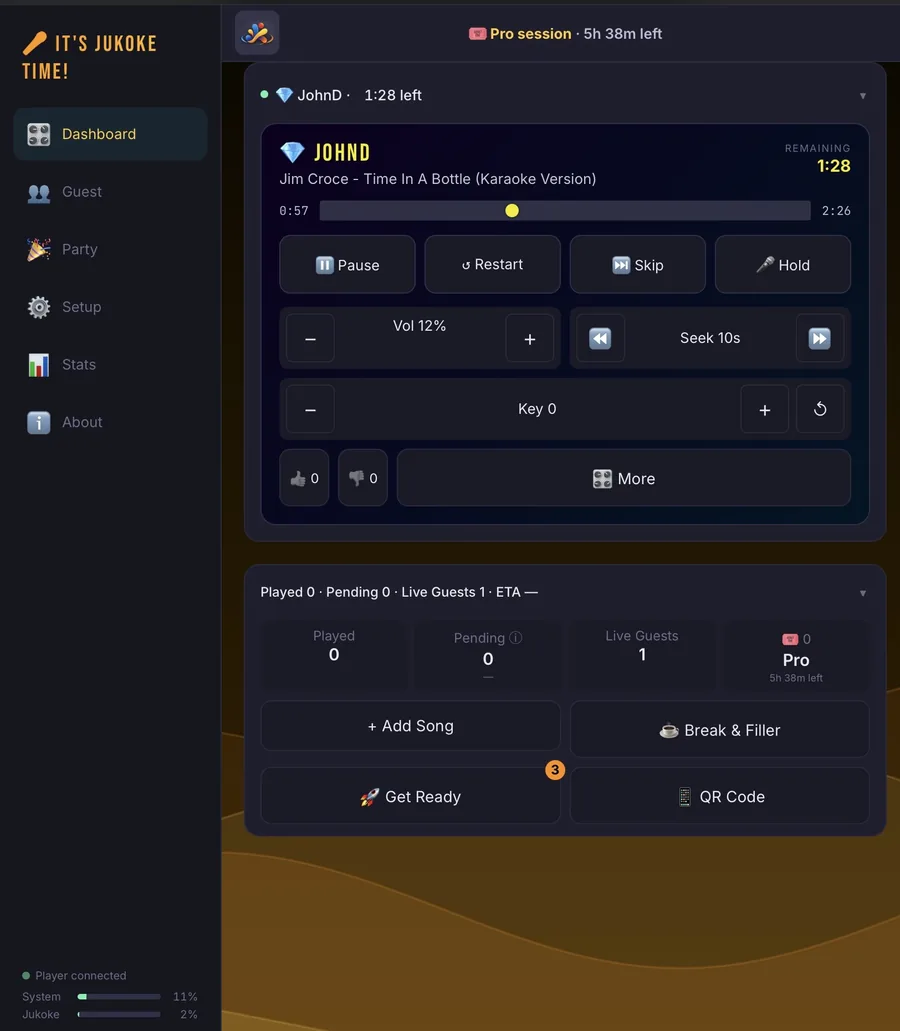
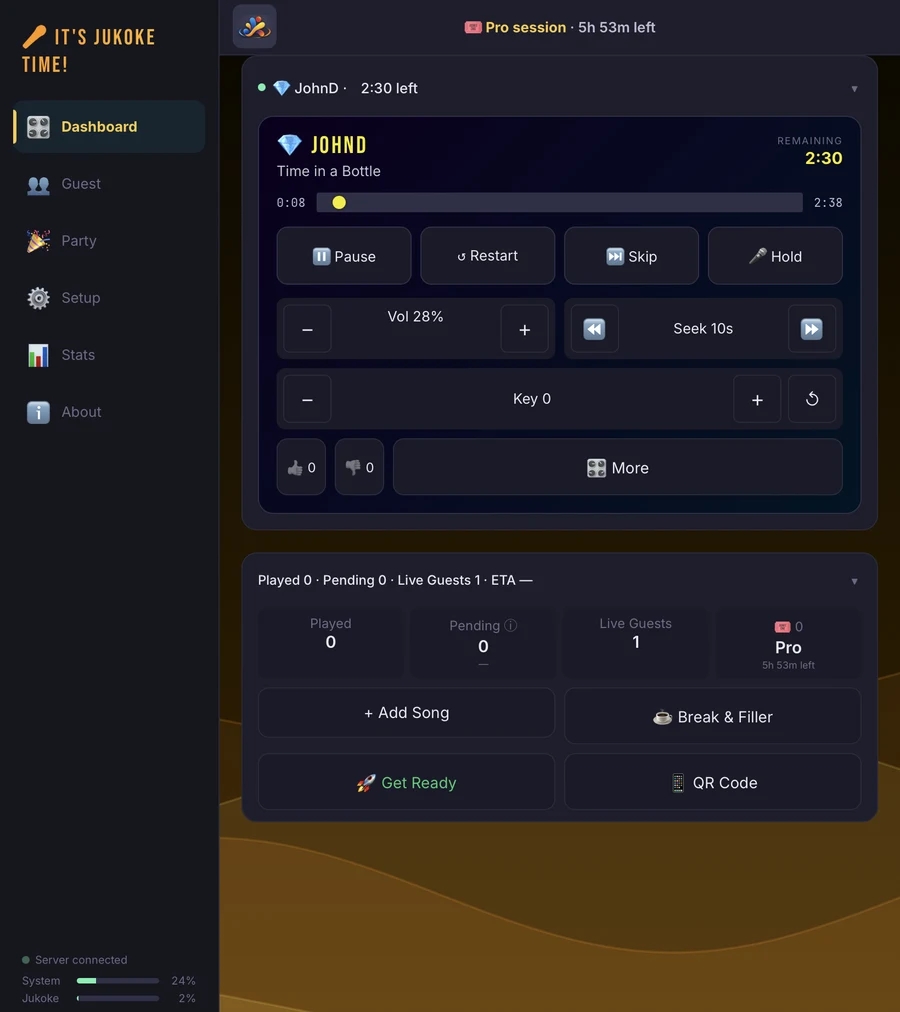
Add 2026.10.26-001 release news and new Get Ready screenshots
News and feed entry for the Get Ready update.
Features: updated NICE-Start text. New Get Ready screenshot, plus a new Test songs figure.
Dashboard hero image retaken on a Pro session, showing the green Get Ready button. Its height attributes are updated on the home and Features pages.

Claude-Session: https://claude.ai/code/session_01HnEckNtUaNkFFQ5UtnkAkX

diff --git a/features.html b/features.html
@@ -120,9 +120,10 @@
 <figcaption class="small muted">The host&rsquo;s night, start to finish</figcaption>
 </figure>
 <div class="shots two">
-<figure class="shot"><img src="img/shots/host-get-ready.webp" width="900" height="1016" alt="The Get Ready checklist on the host dashboard, with checks for songs, playback and guest Wi-Fi" loading="lazy"><figcaption>Get Ready checks your screen, songs and Wi-Fi, and shows what is left.</figcaption></figure>
+<figure class="shot"><img src="img/shots/host-get-ready.webp" width="900" height="840" alt="The Get Ready checklist on the host dashboard, with a status card, checks for songs, playback and guest Wi-Fi, and the Test songs and Screen and sound buttons" loading="lazy"><figcaption>Get Ready checks your screen, songs, Wi-Fi and server, and shows what is left.</figcaption></figure>
+<figure class="shot"><img src="img/shots/host-test-songs.webp" width="900" height="984" alt="The Test songs panel with every check showing OK: display, player, locations, collection, BYO folders, online search, media cache and guest access" loading="lazy"><figcaption>Test songs tries a sample of your songs and says which step, if any, would stop them playing.</figcaption></figure>
 <figure class="shot"><img src="img/shots/host-party-prep.webp" width="900" height="1016" alt="The Party Prep list with one prep, Smith Wedding, and buttons to open, clone or export it" loading="lazy"><figcaption>Prepare the night ahead of time, then bring it to life at the party.</figcaption></figure>
-<figure class="shot"><img src="img/shots/host-dashboard-singing.webp" width="900" height="1031" alt="The host dashboard while a guest sings, with pause, skip, volume and key controls, and buttons below for Add Song, Break &amp; Filler, Get Ready and QR Code" loading="lazy"><figcaption>Run the party from the dashboard while a guest sings.</figcaption></figure>
+<figure class="shot"><img src="img/shots/host-dashboard-singing.webp" width="900" height="1012" alt="The host dashboard while a guest sings, with pause, skip, volume and key controls, and buttons below for Add Song, Break &amp; Filler, Get Ready and QR Code" loading="lazy"><figcaption>Run the party from the dashboard while a guest sings.</figcaption></figure>
 <figure class="shot"><img src="img/shots/host-approve-guest.webp" width="900" height="1016" alt="The Guests screen with a pending guest and Approve, Come See Me and Reject buttons" loading="lazy"><figcaption>Step in when you need to: approve, check in with, or turn away a guest.</figcaption></figure>
 </div>
 <h3>For your guests</h3>
@@ -258,7 +259,7 @@
 </figure>
 
 <div class="cards three">
-<article class="card"><h3><span class="tag">NICE-Start</span> Up and running, step by step</h3><p>A guided checklist for your first time, and any time something stops working. Tell Jukoke what you have to sing with: song files, your own media, or nothing yet. It checks your screen, songs, online search and Wi-Fi as they are right now, shows what is left, and takes you straight to each fix. Skip anything you do not plan to use. Sound and TV setup come with plain guidance. Online search needs a separate helper program that you choose to set up; it is provided as is, without warranty or support. On every plan.</p></article>
+<article class="card"><h3><span class="tag">NICE-Start</span> Up and running, step by step</h3><p>A guided checklist for your first time, and any time something stops working. Tell Jukoke what you have to sing with: song files, your own media, or nothing yet. It checks your screen, songs, online search and Wi-Fi as they are right now, keeps itself up to date while you work, shows what is left, and takes you straight to each fix. Skip anything you do not plan to use. It can try a sample of songs from your catalog, the Dashboard button turns green, yellow or red, and a Screen &amp; sound clip lets you check the TV and each speaker. Sound and TV setup come with plain guidance. Online search needs a separate helper program that you choose to set up; it is provided as is, without warranty or support. On every plan.</p></article>
 <article class="card"><h3><span class="tag">NICE-Prep</span> Ready before the party</h3><p>Build a plan for the night ahead of time, with no session running: party details, the look, filler music, guest permissions, your own songs, and the guests you expect with songs picked for each. On the night it all goes into place together.</p></article>
 <article class="card"><h3><span class="tag">NICE-SIP</span> Your song catalog</h3><p>Scan your folders, or import a list exported from your old karaoke software. Review it, fix any title or artist, and approve. Guests then search the songs you actually have, by title or artist, and find something that will play. Scan and import are on every plan; editing a catalog entry later is part of Lite and Pro.</p></article>
 <article class="card"><h3><span class="tag">NICE-Vibe</span> Your party&rsquo;s look</h3><p>Give the party a title and colors on guests&rsquo; phones and, on Pro, on the TV too. Pro also adds your own background pictures. Without one, the background is a wave pattern in your party colors. It feels like your party, not a generic app.</p></article>

diff --git a/news.html b/news.html
@@ -36,6 +36,21 @@
 </section>
 <section class="wrap block">
 <article class="post">
+<h2 id="r20261025">Test your screen, sound and songs before the party</h2>
+<p class="meta"><time datetime="2026-10-25">October 25, 2026</time></p>
+<p>Version 2026.10.25-001 adds two quick tests to Get Ready, keeps it up to date by itself, and makes scanning your folders simpler.</p>
+<ul class="ticks">
+<li><strong>Test songs.</strong> Get Ready tries a sample of real songs from your catalog and shows which step, if any, would stop them playing. Pick a source, or let Auto test them all. Each song it tried shows as OK, Look or Fix, with a note.</li>
+<li><strong>Screen &amp; sound.</strong> A short test clip with a pattern, a clock and music, so you can check the TV, the sound and which speaker is which. Switch screens or sound (both, left, right or off) while it plays, with no restart.</li>
+<li><strong>Scan and Import together.</strong> Scanning your folders now goes through the same review as an imported list, so there is one place to check and approve songs. Songs you already dismissed stay dismissed.</li>
+<li><strong>A Get Ready button you can read at a glance.</strong> On the Dashboard it is always there: green when you are ready, yellow with a number when something needs a look, red with a ! when you are not ready.</li>
+<li><strong>Your setup.</strong> The gear in Get Ready opens a panel where you change what you sing with, and whether you use a second screen or Wi-Fi for guests. Refresh status now tells you it ran.</li>
+<li><strong>Always up to date.</strong> Get Ready now checks itself every few seconds. Stop your online search helper and you see it on the Dashboard button within moments; start it again and the warning clears by itself.</li>
+<li><strong>Server check.</strong> Get Ready also shows whether Jukoke itself is answering, and raises an alarm if it is not.</li>
+<li><strong>Easier help pages.</strong> The info pages in My Collection are shorter. The Test songs panel now fits on a phone.</li>
+</ul>
+</article>
+<article class="post">
 <h2 id="r20261023">Simpler plans and a 30-Day Pro Pass</h2>
 <p class="meta"><time datetime="2026-10-23">October 23, 2026</time></p>
 <p>Version 2026.10.23-001 simplifies the plans and the prices.</p>

diff --git a/index.html b/index.html
@@ -41,7 +41,7 @@
 <p class="free"><span class="badge">FREE</span> to download and run for yourself. Start a paid session only when you want a bigger party. For Windows 11 and Ubuntu 24.04.</p>
 <ul class="pills"><li>Free to try</li><li>No app for guests</li><li>Prep to final stats</li><li>Solo to full room</li></ul>
 </div>
-<figure class="shot hero-shot" style="max-width:340px;margin:0 auto"><img src="img/shots/host-dashboard-singing.webp" width="900" height="1031" alt="The Jukoke host dashboard while a guest sings: pause, skip, volume, key and the queue, all from a phone or tablet"><figcaption>The host runs the whole night from a phone or tablet.</figcaption></figure>
+<figure class="shot hero-shot" style="max-width:340px;margin:0 auto"><img src="img/shots/host-dashboard-singing.webp" width="900" height="1012" alt="The Jukoke host dashboard while a guest sings: pause, skip, volume, key and the queue, all from a phone or tablet"><figcaption>The host runs the whole night from a phone or tablet.</figcaption></figure>
 </div>
 </section>
 
@@ -136,7 +136,7 @@
 <figcaption class="small muted">One workflow for the host and the guests</figcaption>
 </figure>
 <div class="shots two">
-<figure class="shot"><img src="img/shots/host-dashboard-singing.webp" width="900" height="1031" alt="The host dashboard on a tablet while a guest sings, with Add Song, Break &amp; Filler, Get Ready and QR Code buttons below" loading="lazy"><figcaption>Run the night from your phone or tablet.</figcaption></figure>
+<figure class="shot"><img src="img/shots/host-dashboard-singing.webp" width="900" height="1012" alt="The host dashboard on a tablet while a guest sings, with Add Song, Break &amp; Filler, Get Ready and QR Code buttons below" loading="lazy"><figcaption>Run the night from your phone or tablet.</figcaption></figure>
 <figure class="shot"><img src="img/shots/guest-singing.webp" width="900" height="1500" alt="The singer controls on a guest's phone, with a Tip button in the bottom bar" loading="lazy"><figcaption>Guests sing with their own controls.</figcaption></figure>
 </div>
 <p class="small"><a href="features.html#flows">See each side step by step &rarr;</a></p>
